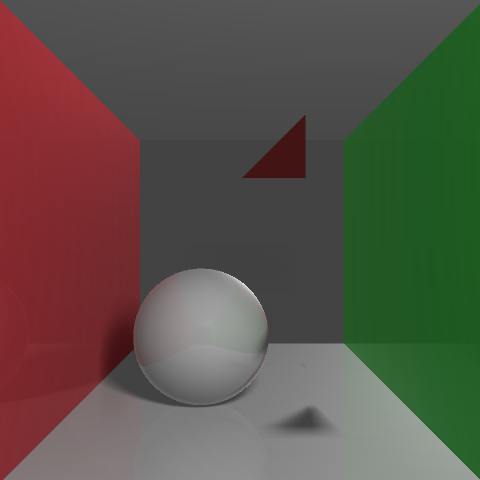
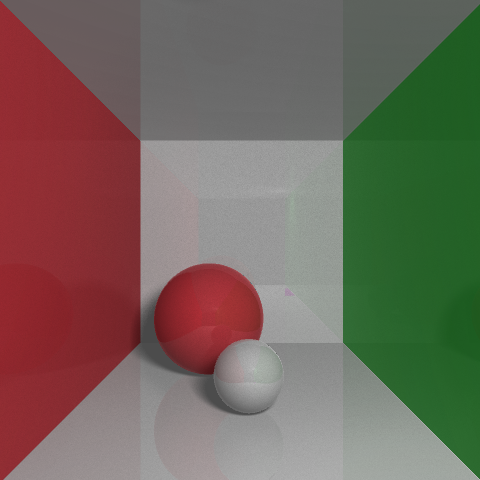
Pull out diffuse calculation for all forms, add to TODO, value tweaking

diff --git a/src/raytrace.cpp b/src/raytrace.cpp
@@ -23,6 +23,8 @@ std::pair<XYZ, Form *> Raytracer::intersect(const XYZ &from, const XYZ &to)
 
     double a = dot(delta, delta);
     double closest_t = std::numeric_limits<double>::max();
+
+    // Intersect spheres
     for (auto &sphere : m_spheres) {
         double b = dot(delta * 2, from - sphere.position);
         double c = dot(sphere.position, sphere.position) +
@@ -38,6 +40,7 @@ std::pair<XYZ, Form *> Raytracer::intersect(const XYZ &from, const XYZ &to)
         }
     }
 
+    // Intersect walls
     for (auto &wall : m_walls) {
         float denom = dot(wall.normal, delta);
         if (fabs(denom) > EPSILON) {
@@ -49,6 +52,7 @@ std::pair<XYZ, Form *> Raytracer::intersect(const XYZ &from, const XYZ &to)
         }
     }
 
+    // Moller-Trumbore triangle intersection
     for (auto &tri : m_triangles) {
         XYZ h = cross(delta, tri.edges[1]);
         double a = dot(h, tri.edges[0]);
@@ -128,7 +132,7 @@ Raytracer::Raytracer(unsigned w, unsigned h)
     : m_width(w),
       m_height(h),
       m_image(w, h),
-      m_camera(w/2, h/2, -700)
+      m_camera(w/2, h/2, -400)
 {
     srand(time(NULL));
 }
@@ -166,7 +170,8 @@ Wall::Wall()
 {
 }
 
-static bool xyz_ccw_cmp(const XYZ &center, const XYZ &a, const XYZ &b)
+// Determine which point is "more clockwise / less counter-clockwise"
+static bool xyz_cw_cmp(const XYZ &center, const XYZ &a, const XYZ &b)
 {
     int dax = (a.x - center.x) > 0 ? 1 : 0;
     int day = (a.y - center.y) > 0 ? 1 : 0;
@@ -199,8 +204,9 @@ Triangle::Triangle(
     transmittance = tran;
     position = (v1 + v2 + v3) / 3;
     auto cmp_func = [&](const XYZ &a, const XYZ &b) {
-        return xyz_ccw_cmp(position, a, b);
+        return xyz_cw_cmp(position, a, b);
     };
+    // Sort vertices clockwise around triangle's center
     std::sort(vertices, vertices + 3, cmp_func);
     edges[0] = vertices[1] - vertices[0];
     edges[1] = vertices[2] - vertices[0];
@@ -210,11 +216,29 @@ Triangle::Triangle()
 {
 }
 
+Color Raytracer::diffuse(const Color &c, const XYZ &hit, const XYZ &norm)
+{
+    double light_mag = distance(m_light, hit);
+    XYZ unit_light = (m_light - hit) / light_mag;
+    double compute_factor = dot(norm, unit_light);
+    Color diffuse_color = c * 0.6 * m_diffuse * compute_factor +
+        c * m_ambient;
+    double sight_mag = distance(hit, m_camera);
+    XYZ unit_sight = (hit - m_camera) / sight_mag;
+    double combined_mag = (unit_light + unit_sight).magnitude();
+    XYZ unit_bisect = (unit_light + unit_sight) / combined_mag;
+    double specular_amount = std::pow(std::max(0.0, dot(norm, unit_bisect)),
+            m_specular_size);
+    Color specular_color = Color{ 255, 255, 255 } * (specular_amount * m_specular);
+    return diffuse_color + specular_color;
+}
+
 double Raytracer::shadow_amount(const XYZ &hit)
 {
     double shadow_hits = 0;
     for (unsigned sx = 0; sx < m_shadow_grid_size; sx++) {
         for (unsigned sy = 0; sy < m_shadow_grid_size; sy++) {
+            // Random component for anti-color banding
             auto antiband = rand() % (int)m_shadow_unit_size - m_shadow_unit_size/2;
             XYZ shadow_grid_spot = {
                 m_light.x+((double)sx-m_shadow_grid_size/2)*m_shadow_unit_size + antiband,
@@ -224,12 +248,13 @@ double Raytracer::shadow_amount(const XYZ &hit)
             auto shadow_hit = intersect(hit, shadow_grid_spot);
             if (shadow_hit.second != nullptr &&
                     distance(shadow_hit.first, hit) < distance(hit, m_light))
-                shadow_hits += 1 - shadow_hit.second->transmittance;
+                shadow_hits += MAX(0.3, 1 - shadow_hit.second->transmittance);
         }
     }
     return shadow_hits / (m_shadow_grid_size * m_shadow_grid_size);
 }
 
+// Calculate fresnel effect
 static double fresnel_amount(const XYZ &delta, const XYZ &norm, double ior)
 {
     double cos_i = dot(delta, norm);
@@ -239,7 +264,6 @@ static double fresnel_amount(const XYZ &delta, const XYZ &norm, double ior)
     if (cos_i > 0) std::swap(eta_i, eta_t);
 
     double sin_t = eta_i / eta_t * sqrt(MAX(0, 1 - cos_i * cos_i));
-
     if (sin_t >= 1) {
         return 1;
     } else {
@@ -260,21 +284,9 @@ Color Sphere::render(
     unsigned depth
 ){
     XYZ unit_norm = (hit - position) / radius;
-    double dot_norm = dot(delta, unit_norm);
-    double light_mag = distance(rt->m_light, hit);
-    XYZ unit_light = (rt->m_light - hit) / light_mag;
-    double compute_factor = dot(unit_norm, unit_light);
-    Color diffuse_color = color * 0.5 * rt->m_diffuse * compute_factor +
-        color * rt->m_ambient;
-    double sight_mag = distance(hit, rt->m_camera);
-    XYZ unit_sight = (hit - rt->m_camera) / sight_mag;
-    double combined_mag = distance({ 0, 0, 0 }, unit_light + unit_sight);
-    XYZ unit_bisect = (unit_light + unit_sight) / combined_mag;
-    double specular_amount = std::pow(std::max(0.0, dot(unit_norm, unit_bisect)),
-            rt->m_specular_size);
-    Color specular_color = color * (specular_amount * rt->m_specular);
-    Color out_color = diffuse_color + specular_color;
+    Color out_color = rt->diffuse(color, hit, unit_norm);
     double fresnel = fresnel_amount(delta, unit_norm, refractive_index);
+    double dot_norm = dot(delta, unit_norm);
     if (depth > 0 && reflectance > 0) {
         XYZ eps_norm = unit_norm * EPSILON;
         XYZ delta_reflect = delta - unit_norm * 2 * dot_norm;
@@ -289,7 +301,7 @@ Color Sphere::render(
             unit_norm = -unit_norm;
             dot_norm = -dot_norm;
         }
-        XYZ bias = unit_norm * 1e-4;
+        XYZ bias = unit_norm * 1e-8;
         double cos_i = dot(delta, unit_norm);
         clamp(cos_i, -1, 1);
         double eta_i = 1, eta_t = refractive_index;
@@ -298,7 +310,8 @@ Color Sphere::render(
         double r_amount = MAX(0, 1 - eta * eta * (1 - cos_i * cos_i));
         if (r_amount > 0) {
             XYZ dir = delta * eta + unit_norm * (eta * cos_i - sqrt(r_amount));
-            Color refract_color = rt->cast_ray(outside ? hit - bias : hit + bias, hit + dir, depth - 1);
+            Color refract_color =
+                rt->cast_ray(outside ? hit - bias : hit + bias, hit + dir, depth - 1, false);
             out_color = out_color * (1 - transmittance) +
                 refract_color * (1 - fresnel) * transmittance;
         }
@@ -314,27 +327,16 @@ Color Wall::render(
     unsigned depth
 ){
     XYZ unit_norm = normal - position;
-    XYZ eps_norm = unit_norm * EPSILON;
-    double dot_norm = dot(unit_norm, delta);
-    double light_mag = distance(rt->m_light, hit);
-    XYZ unit_light = (rt->m_light - hit) / light_mag;
-    double compute_factor = dot(unit_norm, unit_light);
-    Color diffuse_color = color * 0.5 * rt->m_diffuse * compute_factor +
-        color * rt->m_ambient;
-    double sight_mag = distance(hit, rt->m_camera);
-    XYZ unit_sight = (hit - rt->m_camera) / sight_mag;
-    double combined_mag = distance({0, 0, 0}, unit_light + unit_sight);
-    XYZ unit_bisect = (unit_light + unit_sight) / combined_mag;
-    double specular_amount = std::pow(std::max(0.0, dot(unit_norm, unit_bisect)),
-            rt->m_specular_size);
-    Color specular_color = color * (specular_amount * rt->m_specular);
-    Color out_color = diffuse_color + specular_color;
+    Color out_color = rt->diffuse(color, hit, unit_norm);
     double fresnel = fresnel_amount(delta, unit_norm, refractive_index);
     if (depth > 0 && reflectance > 0) {
+        XYZ eps_norm = unit_norm * EPSILON;
+        double dot_norm = dot(unit_norm, delta);
         XYZ delta_reflect = delta - unit_norm * 2 * dot_norm;
-        Color reflect_color = rt->cast_ray(hit + eps_norm, hit + delta_reflect, depth - 1, true);
-        out_color = out_color
-            + reflect_color * reflectance * fresnel;
+        Color reflect_color =
+            rt->cast_ray(hit + eps_norm, hit + delta_reflect, depth - 1, true);
+        out_color = out_color +
+            reflect_color * reflectance * fresnel;
     }
     double shadow_amount = rt->shadow_amount(hit);
     return out_color * (1 - shadow_amount) + color * rt->m_ambient * shadow_amount;
@@ -347,27 +349,16 @@ Color Triangle::render(
     unsigned depth
 ){
     XYZ unit_norm = cross(edges[0], edges[1]).normal();
-    XYZ eps_norm = unit_norm * EPSILON;
-    double dot_norm = dot(unit_norm, delta);
-    double light_mag = distance(rt->m_light, hit);
-    XYZ unit_light = (rt->m_light - hit) / light_mag;
-    double compute_factor = dot(unit_norm, unit_light);
-    Color diffuse_color = color * 0.5 * rt->m_diffuse * compute_factor +
-        color * rt->m_ambient;
-    double sight_mag = distance(hit, rt->m_camera);
-    XYZ unit_sight = (hit - rt->m_camera) / sight_mag;
-    double combined_mag = distance({ 0, 0, 0 }, unit_light + unit_sight);
-    XYZ unit_bisect = (unit_light + unit_sight) / combined_mag;
-    double specular_amount = std::pow(std::max(0.0, dot(unit_norm, unit_bisect)),
-            rt->m_specular_size);
-    Color specular_color = color * (specular_amount * rt->m_specular);
-    Color out_color = diffuse_color + specular_color;
+    Color out_color = rt->diffuse(color, hit, unit_norm);
     double fresnel = fresnel_amount(delta, unit_norm, refractive_index);
     if (depth > 0 && reflectance > 0) {
+        XYZ eps_norm = unit_norm * EPSILON;
+        double dot_norm = dot(unit_norm, delta);
         XYZ delta_reflect = delta - unit_norm * 2 * dot_norm;
-        Color reflect_color = rt->cast_ray(hit + eps_norm, hit + delta_reflect, depth - 1, true);
-        out_color = out_color
-            + reflect_color * reflectance * fresnel;
+        Color reflect_color =
+            rt->cast_ray(hit + eps_norm, hit + delta_reflect, depth - 1, true);
+        out_color = out_color +
+            reflect_color * reflectance * fresnel;
     }
     double shadow_amount = rt->shadow_amount(hit);
     return out_color * (1 - shadow_amount) + color * rt->m_ambient * shadow_amount;

diff --git a/src/main.cpp b/src/main.cpp
@@ -6,8 +6,8 @@ int main(int, char **)
 
     raytracer.add_form(Wall {
         { 255, 255, 255 },
-        0.6,
-        1.5,
+        0.8,
+        1.8,
         0,
         { 0, 480, 0 },
         { 0, 479, 0 },
@@ -15,26 +15,26 @@ int main(int, char **)
 
     raytracer.add_form(Wall {
         { 255, 255, 255 },
-        0,
-        1.5,
+        0.8,
+        1.8,
         0,
         { 0, 0, 0 },
         { 0, 1, 0 },
     });
 
     raytracer.add_form(Wall {
-        { 255, 255, 255 },
+        { 240, 240, 240 },
         0.6,
-        1.5,
+        3.4,
         0,
-        { 0, 0, 950 },
-        { 0, 0, 951 },
+        { 0, 0, 550 },
+        { 0, 0, 549 },
     });
 
     raytracer.add_form(Wall {
         { 70, 250, 80 },
-        0.6,
-        1.5,
+        0.8,
+        1.8,
         0,
         { 480, 0, 0 },
         { 479, 0, 0 },
@@ -43,7 +43,7 @@ int main(int, char **)
     raytracer.add_form(Wall {
         { 250, 70, 80 },
         0.6,
-        1.5,
+        1.8,
         0,
         { 0, 0, 0 },
         { 1, 0, 0 },
@@ -52,19 +52,28 @@ int main(int, char **)
     raytracer.add_form(Wall {
         { 255, 255, 255 },
         0.6,
-        1.5,
+        1.8,
         0,
-        { 0, 0, -700 },
-        { 0, 0, -701 },
+        { 0, 0, -720 },
+        { 0, 0, -721 },
     });
 
     raytracer.add_form(Sphere {
-        { 255, 255, 255 },
+        { 250, 70, 80 },
         0.9,
-        1.8,
+        2.4,
         0,
         { 480 / 2 - 60, 380, 340 },
         100,
+    });
+
+    raytracer.add_form(Sphere {
+        { 245, 245, 245 },
+        0.9,
+        2.4,
+        0,
+        { 480 / 2 + 10, 480 - 50, 170 },
+        50,
     });
 
     /*
@@ -80,8 +89,11 @@ int main(int, char **)
     */
 
     raytracer.set_pixel_sample_size(2);
+    raytracer.set_reflection_depth(3);
+    raytracer.set_shadow_unit_size(24);
+    raytracer.set_shadow_grid_size(8);
 
-    raytracer.set_light({380, 100, -400});
+    raytracer.set_light({480 - 50, 50, -400});
     raytracer.set_background({213, 210, 210});
 
     raytracer.render();

diff --git a/include/raytrace.h b/include/raytrace.h
@@ -57,14 +57,15 @@ private:
     std::vector<Wall> m_walls;
     std::vector<Triangle> m_triangles;
 
+    Color diffuse(const Color &, const XYZ &, const XYZ &);
     double shadow_amount(const XYZ &);
 
-    double m_diffuse { 0.7 };
-    double m_ambient { 0.26 };
-    double m_specular { 0.5 };
-    double m_specular_size { 10 };
+    double m_diffuse { 0.9 };
+    double m_ambient { 0.3 };
+    double m_specular { 0.25 };
+    double m_specular_size { 20 };
 
-    unsigned m_reflection_depth { 3 };
+    unsigned m_reflection_depth { 4 };
 
     double m_shadow_unit_size { 12.0 };
     unsigned m_shadow_grid_size { 12 };

diff --git a/TODO.md b/TODO.md
@@ -1,5 +1,6 @@
 # Todo
     - Fix triangle orientation
-    - Fix refraction
     - Color blend properly for all types of additional shading
+    - Add multiple light-source support
+    - Add directional lights
 
